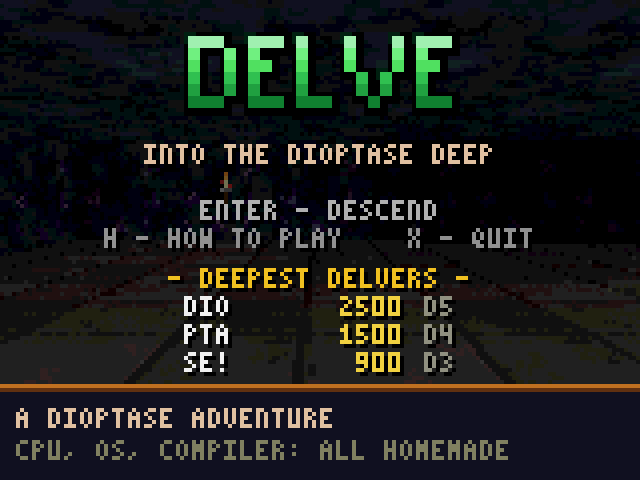
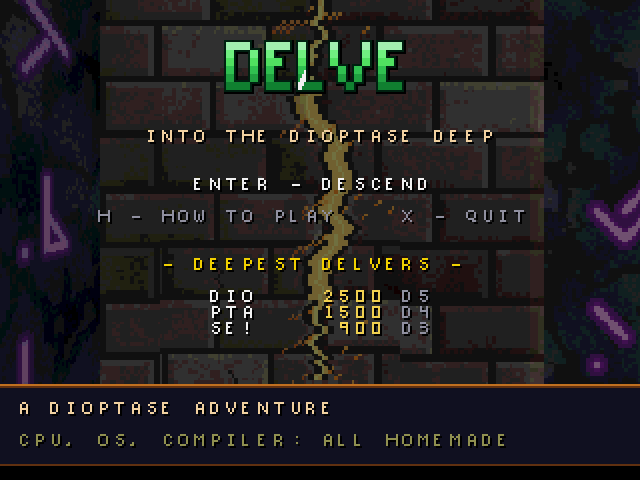
delve: README screenshots of the current renderer
The old screenshots predate the 320x192 view, 64x64 sprites, and
128x128 walls. The Heart shot is replaced by a floating eye beside a
crystal seam, which shows the new sprites and wall textures. Also
updates the TLB-miss cost the README quotes now that a miss costs
several hundred kernel instructions rather than over a thousand.

Claude-Session: https://claude.ai/code/session_01KLjLpx4kbkCVqodLADnD3w

diff --git a/root/delve/README.md b/root/delve/README.md
@@ -8,8 +8,8 @@ this machine; the game runs as an ordinary user program on Dioptase-OS.
 
 | | |
 | --- | --- |
-| ![Title screen with the attract-mode demo behind it](../../docs/delve/title.png) | ![A fireball lights up a corridor on its way to a slime](../../docs/delve/fireball.png) |
-| ![The Warden charges a volley](../../docs/delve/warden.png) | ![The rune key breaks the seal on the Heart of Dioptase](../../docs/delve/heart.png) |
+| ![Title screen over the attract-mode demo, a cracked wall glowing behind the logo](../../docs/delve/title.png) | ![A fireball lights up a corridor](../../docs/delve/fireball.png) |
+| ![The Warden waits at the end of a mossy corridor](../../docs/delve/warden.png) | ![A floating eye fires a bolt beside a seam of dioptase crystals](../../docs/delve/eye.png) |
 
 ## Running it
 
@@ -92,7 +92,7 @@ the horizon into two halves, each made of 40 chunks of 8x96 pixels stored
 row by row. A wall or sprite column touches one chunk per half, floor casting
 fills one 8-pixel column group at a time, and the copy to the framebuffer
 moves 16-byte chunk rows. That matters because the TLB has 16 entries and a
-miss costs over a thousand instructions: the first layout tried, with
+miss costs several hundred kernel instructions: the first layout tried, with
 32-row bands, made every tall wall column touch six pages and ran at a third
 of the speed.
 
